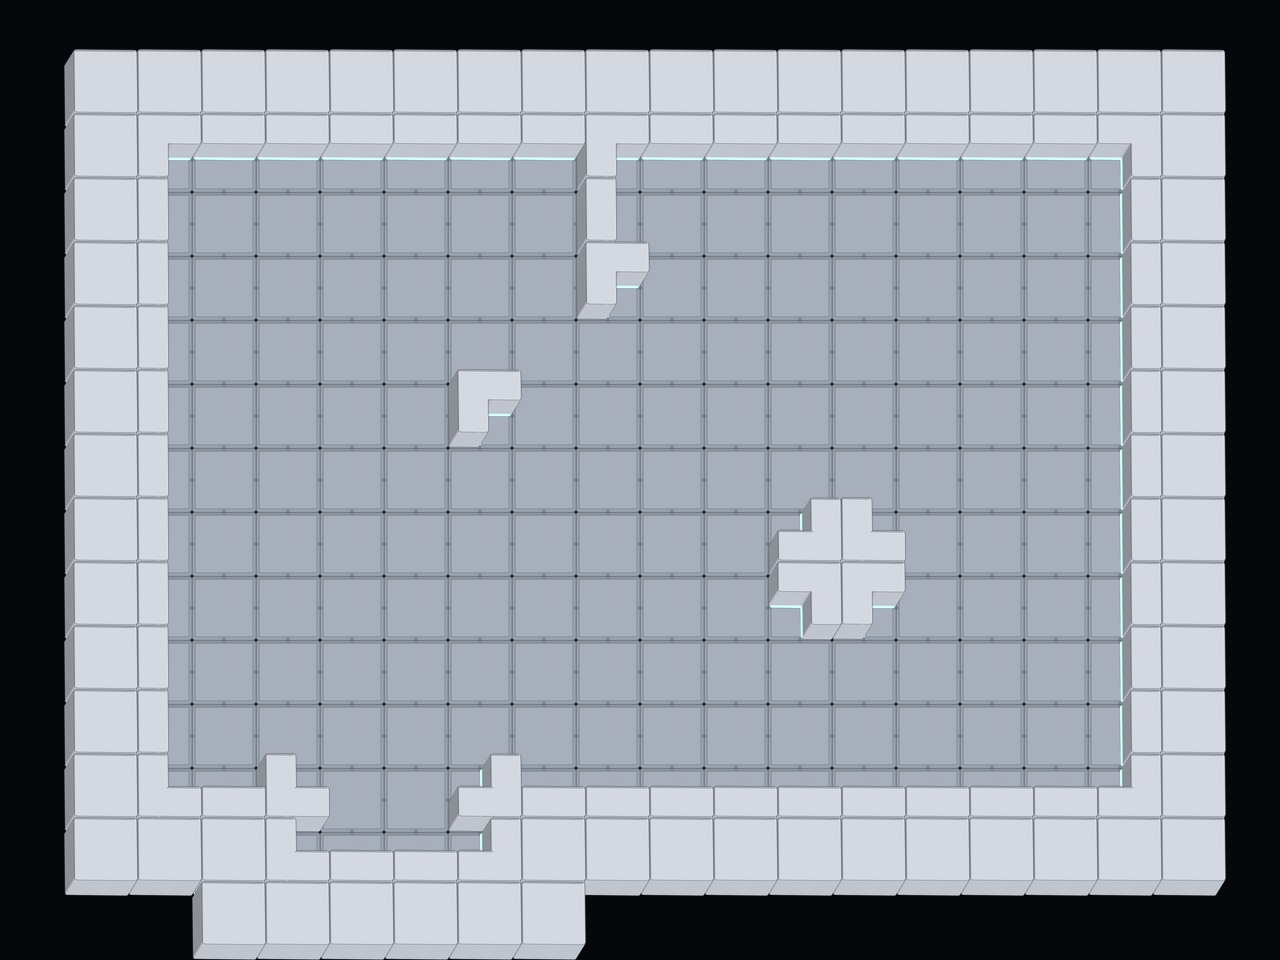
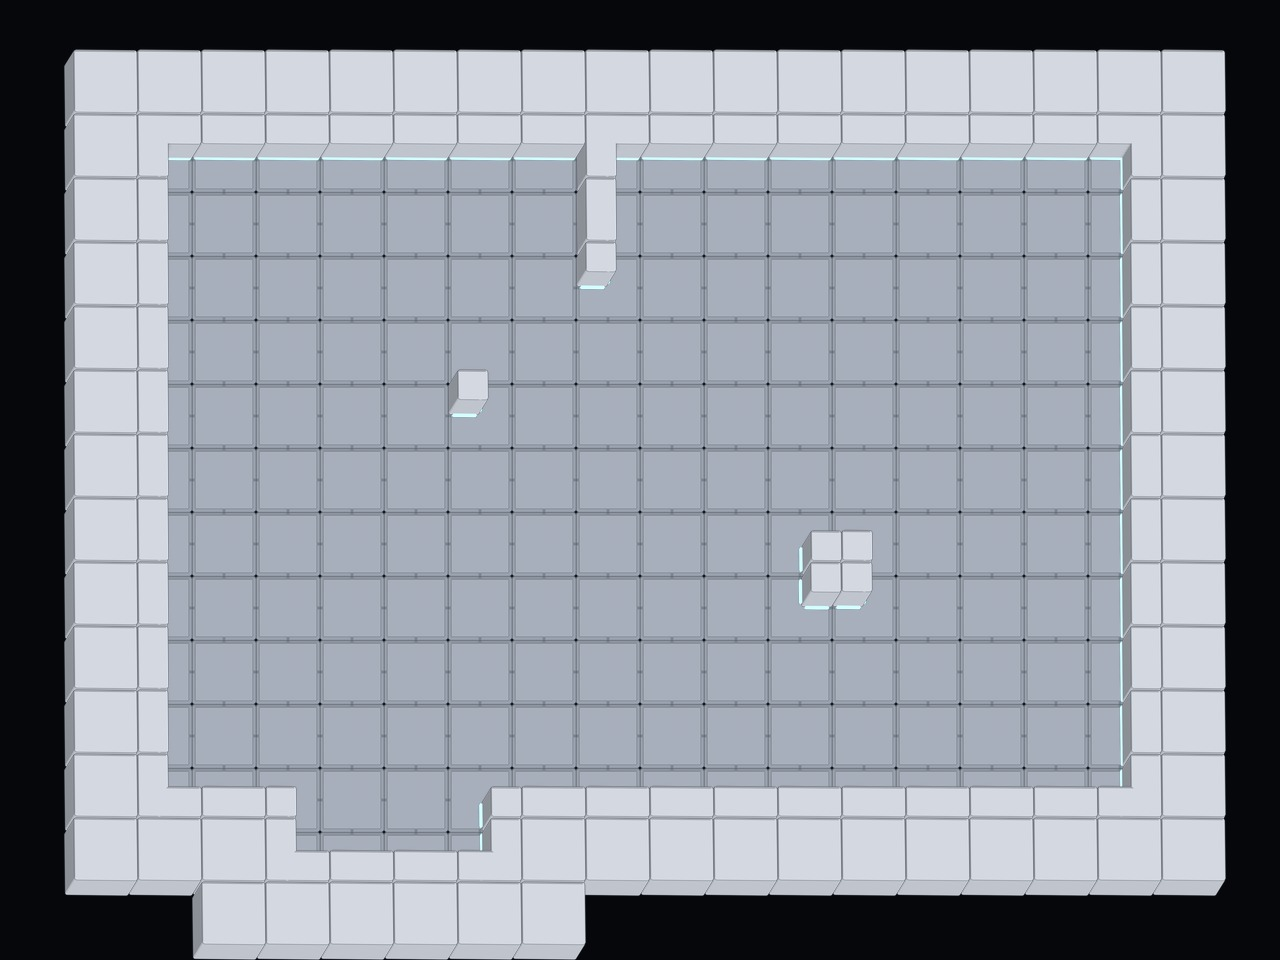
interior: bake convex corner posts; restore the maze wall mask
Convex corners (XNW/XNE/XSW/XSE, 13 tiles per variant row now). A wall run is
inset from the floor it faces, so its body is a half-cell strip on the far
side. At an OUTER corner the body is the INTERSECTION of the two strips — a
quarter-cell post. The old L-shaped tile was their UNION, which left the
perpendicular strip running the full cell and poking past the wall face: the
horns, and on a 2x2 block four of them cut it into a cross. Concave inner
corners keep the union (C*) — there the cell must carry both runs through it.

Wall mask: plan.solid mixes the sealed apron (real structure, and most of a
maze's wall mass) with furniture footprints. The previous fix dropped both, so
unwalkable apron rendered as open floor. Now only furniture is subtracted;
props standing on structure (banners, jail bars) are unaffected since their
tier clears solid_min_tier first.

diff --git a/src/surface/interiors.rs b/src/surface/interiors.rs
@@ -461,15 +461,18 @@ const T_WALL: u32 = 3;
 // past the grid); it's placed by its GROUND ORIGIN (the cell centre at z=0)
 // via a Bevy anchor, then y-sorted like any prop.
 const CAB_CELL_W: u32 = 74;
-const CAB_CELL_H: u32 = 80;
+const CAB_CELL_H: u32 = 82;
 const CAB_ASSET_PXU: f32 = 64.0; // asset pixels per world unit (→ TILE_PX in game)
-const CAB_ANCHOR: Vec2 = Vec2::new(-0.06419, -0.10625);
+const CAB_ANCHOR: Vec2 = Vec2::new(-0.06419, -0.11890);
 /// Foot-x weight for depth sorting = the bake's SHX/SHY lean ratio. Walls
 /// lean up-and-right, so left-of-same-row renders in front (see DepthShear).
 const CAB_SHEAR: f32 = 0.26 / 0.42;
 /// How many wall rings (Chebyshev, from walkable floor) a building draws
 /// before giving way to the black void beyond — a room, not walls forever.
 const CAB_WALL_BAND: i32 = 2;
+/// Tile kinds per variant row of the wall atlas: 4 straight runs, 4 concave
+/// corners, the deep cap, 4 convex corner posts. See `cabinet_tile_index`.
+const CAB_TILE_KINDS: u32 = 13;
 
 /// Read a PNG's `(width, height)` from its IHDR header without decoding the
 /// image. Lets the venue tilesets be self-describing: the number of floor /
@@ -488,30 +491,36 @@ fn png_dims(path: &str) -> Option<(u32, u32)> {
 
 /// Pick the cabinet wall tile (index into the 9-cell strip) for a wall cell.
 ///
-/// ONE rule, applied uniformly: **the wall body sits opposite every side that
-/// fronts floor**. A tile's name says where its body is, so floor to the south
-/// picks `N`; floor to the south *and* east picks `CNW`. That covers both
-/// corner families with the same art — the CONVEX outer corner (two orthogonal
-/// floors, e.g. a door jamb or pillar) and the CONCAVE inner corner (no
-/// orthogonal floor, one diagonal floor, e.g. a room's corner) — because in
-/// both cases the body belongs in the quadrant away from the floor.
+/// ONE rule: **the wall body sits opposite every side that fronts floor** — a
+/// run is inset from the floor it faces, so its body is a half-cell strip on
+/// the far side. Where two of those constraints meet, the two corner families
+/// differ in HOW they combine:
 ///
-/// Strip order: N=0 S=1 E=2 W=3 CNW=4 CNE=5 CSW=6 CSE=7 V=8.
+/// * CONVEX outer corner (two orthogonal floors — a jamb, a block corner):
+///   the body is their INTERSECTION, a quarter-cell post (`X*`). Their union
+///   would leave the perpendicular strip running the full cell and poking past
+///   the wall face — the "horns", which on a 2×2 block cut it into a cross.
+/// * CONCAVE inner corner (no orthogonal floor, one diagonal floor — a room's
+///   corner): the body is their UNION (`C*`), because the cell has to carry
+///   both neighbouring runs through it; the missing quadrant is the miter.
+///
+/// Strip order: N=0 S=1 E=2 W=3 CNW=4 CNE=5 CSW=6 CSE=7 V=8
+///              XNW=9 XNE=10 XSW=11 XSE=12.
 fn cabinet_tile_index(wall: impl Fn(i32, i32) -> bool, x: i32, y: i32) -> usize {
     let (f_n, f_s) = (!wall(x, y + 1), !wall(x, y - 1));
     let (f_e, f_w) = (!wall(x + 1, y), !wall(x - 1, y));
-    // Convex corners: two orthogonal floors → body in the opposite quadrant.
+    // Convex corners: two orthogonal floors → quarter-cell post.
     if f_s && f_e {
-        return 4; // floor S+E → body N+W = CNW
+        return 9; // floor S+E → post NW = XNW
     }
     if f_s && f_w {
-        return 5; // floor S+W → body N+E = CNE
+        return 10; // floor S+W → post NE = XNE
     }
     if f_n && f_e {
-        return 6; // floor N+E → body S+W = CSW
+        return 11; // floor N+E → post SW = XSW
     }
     if f_n && f_w {
-        return 7; // floor N+W → body S+E = CSE
+        return 12; // floor N+W → post SE = XSE
     }
     // Straight edges: one orthogonal floor → body on the far strip.
     if f_s {
@@ -1208,12 +1217,29 @@ pub(crate) fn setup_interior(
         // floor-adjacency) leaning up-and-right under a single oblique shear,
         // all y-sorted so the walker moves among them. Bake:
         // scripts/ship3d/interior_cabinet_tiles.py + pack_interior_tiles.py.
-        // STRUCTURE only — the rock/steel the room is carved from. Furniture
-        // (`plan.solid`: containers, carts, barrels, pumps) is solid for
-        // COLLISION but must not become wall ART, or a crate grows a wall on
-        // top of itself and its neighbours autotile a corner around it.
+        // Wall ART = everything the walker can't enter EXCEPT furniture.
+        //
+        // `plan.solid` mixes two very different things: the sealed apron
+        // (walkable-tier tiles that aren't designed floor — real structure,
+        // and the bulk of a maze's wall mass) and furniture footprints
+        // (containers, carts, barrels, pumps). The apron must render as wall
+        // or unwalkable space reads as open floor; furniture must not, or a
+        // crate grows a wall on top of itself. So subtract just the furniture.
+        //
+        // Props standing ON structure (wall banners, jail bars) are unaffected:
+        // their tier already clears `solid_min_tier`, which is checked first.
+        let mut furniture = vec![false; (map_w * map_h) as usize];
+        for &(name, (px, py)) in &plan.props {
+            let (pw, ph, _) = prop_meta(name);
+            for y in py..(py + ph).min(map_h) {
+                for x in px..(px + pw).min(map_w) {
+                    furniture[(y * map_w + x) as usize] = true;
+                }
+            }
+        }
         let structural = |tx: u32, ty: u32| -> bool {
             let tier = map2d[ty as usize][tx as usize];
+            let i = (ty * map_w + tx) as usize;
             tier >= plan.solid_min_tier
                 || biome
                     .terrains
@@ -1221,6 +1247,7 @@ pub(crate) fn setup_interior(
                     .find(|t| t.row == tier)
                     .map(|t| t.collision == 1)
                     .unwrap_or(false)
+                || (plan.solid[i] && !furniture[i])
         };
         let bin: Vec<Vec<u32>> = (0..map_h)
             .map(|y| {
@@ -1258,7 +1285,7 @@ pub(crate) fn setup_interior(
             .map_or(1, |(w, _)| (w / CAB_ASSET_PXU as u32).max(1));
         let walls_layout = atlas_layouts.add(TextureAtlasLayout::from_grid(
             UVec2::new(CAB_CELL_W, CAB_CELL_H),
-            9,
+            CAB_TILE_KINDS,
             wall_variants,
             None,
             None,
@@ -1311,7 +1338,7 @@ pub(crate) fn setup_interior(
                         walls_atlas.clone(),
                         TextureAtlas {
                             layout: walls_layout.clone(),
-                            index: wv * 9 + idx,
+                            index: wv * CAB_TILE_KINDS as usize + idx,
                         },
                     );
                     w.custom_size = Some(wall_size);
@@ -2436,11 +2463,14 @@ mod tests {
         assert_eq!(idx(0, 3), 3, "west wall → W");
         assert_eq!(idx(6, 3), 2, "east wall → E");
         assert_eq!(idx(1, 0), 1, "south wall segment → S (floor to north)");
-        // Door jambs (convex, two orthogonal floors): body goes to the
-        // quadrant AWAY from both floors, so the jamb left of the door (floor
-        // north + east) keeps its body south-west, and vice versa.
-        assert_eq!(idx(2, 0), 6, "left of door: floor N+E → body S+W = CSW");
-        assert_eq!(idx(4, 0), 7, "right of door: floor N+W → body S+E = CSE");
+        // Door jambs (convex, two orthogonal floors): a quarter-cell POST in
+        // the quadrant away from both floors — not the L-shaped concave tile,
+        // whose perpendicular strip would poke past the wall face as a horn.
+        assert_eq!(idx(2, 0), 11, "left of door: floor N+E → post S+W = XSW");
+        assert_eq!(idx(4, 0), 12, "right of door: floor N+W → post S+E = XSE");
+        // The two families must stay distinct: a room corner (concave) and a
+        // jamb (convex) both "face" the same way but use different art.
+        assert_ne!(idx(0, 5), idx(4, 0), "concave and convex must differ");
         // Deep wall cell (no floor anywhere adjacent) → solid cap V:
         let wall_all = |_x: i32, _y: i32| true;
         assert_eq!(cabinet_tile_index(wall_all, 5, 5), 8, "surrounded → V");

diff --git a/scripts/ship3d/interior_cabinet_tiles.py b/scripts/ship3d/interior_cabinet_tiles.py
@@ -84,14 +84,16 @@ def _face(edge):
     raise ValueError(edge)
 
 
-def _face_detail(edge, kind, variant, mat, glow):
+def _face_detail(edge, kind, variant, mat, glow, lo=-0.43, hi=0.43):
     """Add venue greebles on the room-facing wall face of one edge slab.
     `variant` seeds the organic (rock) placement so several wall tiles shuffle
-    across a run without visibly repeating."""
+    across a run without visibly repeating. `lo`/`hi` bound the run along the
+    face — quarter-cell corner posts only expose half of it."""
     if kind is None:
         return
     run, (fax, fc), ns = _face(edge)
     h = WALL_H
+    mid, half = (lo + hi) / 2, (hi - lo) / 2
 
     def place(name, along, out, z, size_run, size_out, size_z, m):
         # `along` runs down the face; `out` proud of the face by that much.
@@ -103,27 +105,31 @@ def _face_detail(edge, kind, variant, mat, glow):
         B.add_box(name, loc, size, m, bevel=0.01)
 
     if kind == "ribs":  # warehouse corrugation — vertical fins
-        for i, p in enumerate((-0.4, -0.2, 0.0, 0.2, 0.4)):
+        n = max(2, int(round((hi - lo) / 0.2)))
+        for i in range(n + 1):
+            p = lo + (hi - lo) * i / n
             place(f"rib{edge}{i}", p, 0.03, h * 0.5, 0.05, 0.06, h * 0.9, mat)
     elif kind == "conduit":  # substation — a pipe run + a glowing node
-        place(f"pipe{edge}", 0.0, 0.05, h * 0.58, 0.92, 0.08, 0.1, mat)
-        place(f"node{edge}", 0.26, 0.07, h * 0.58, 0.1, 0.06, 0.14, glow)
+        place(f"pipe{edge}", mid, 0.05, h * 0.58, half * 2.1, 0.08, 0.1, mat)
+        place(f"node{edge}", mid + half * 0.6, 0.07, h * 0.58, 0.1, 0.06, 0.14, glow)
     elif kind == "rock":  # mine — rough dug rock, clustered lumps + cap bumps
         import random
         rng = random.Random(700 + variant * 37 + (ord(edge[-1]) * 13))
-        for i in range(7):  # lumps over the room-facing face
-            along = rng.uniform(-0.43, 0.43)
+        for i in range(max(3, int(7 * (hi - lo) / 0.86))):  # lumps over the face
+            along = rng.uniform(lo, hi)
             z = rng.uniform(0.12, 0.96) * h
             s = rng.uniform(0.1, 0.26)
             place(f"rk{edge}{i}", along, 0.02 + rng.uniform(0, 0.04), z,
                   s, 0.12 + rng.uniform(0, 0.06), s * rng.uniform(0.7, 1.2), mat)
         # a few bumps riding the top cap so the ridge isn't a clean edge
-        (cx, cy, _), _ = _edge_slab(edge)
-        for i in range(4):
-            along = rng.uniform(-0.4, 0.4)
-            s = rng.uniform(0.12, 0.24)
-            loc = (along, cy, h * 0.96) if run == "x" else (cx, along, h * 0.96)
-            B.add_box(f"rkc{edge}{i}", loc, (s, s, 0.14), mat, bevel=0.4)
+        # (full-run edges only; corner posts get theirs from the face lumps)
+        if hi - lo > 0.8:
+            (cx, cy, _), _ = _edge_slab(edge)
+            for i in range(4):
+                along = rng.uniform(-0.4, 0.4)
+                s = rng.uniform(0.12, 0.24)
+                loc = (along, cy, h * 0.96) if run == "x" else (cx, along, h * 0.96)
+                B.add_box(f"rkc{edge}{i}", loc, (s, s, 0.14), mat, bevel=0.4)
 
 
 def _shear():
@@ -196,6 +202,37 @@ def _girder(edge, style, mat):
             place(f"gd{edge}{i}", -0.36 + 0.72 * f, (0.16 + 0.7 * f) * h, 0.18, 0.12, 0.18)
 
 
+# ── Convex (outer) corners ─────────────────────────────────────────────────
+# A wall run is inset from the floor it faces, so its body is a half-cell strip
+# on the far side. Where a run turns an OUTER corner, the body is the
+# INTERSECTION of the two strips — a quarter-cell post. Using their UNION (the
+# L-shaped CNW/CNE/CSW/CSE tiles) leaves the perpendicular strip running the
+# full cell and poking past the wall face: the "horns", and, on a 2x2 block,
+# four of them cutting the block into a cross.
+#
+# quad name → (body centre, the two exposed faces as (edge, run-span)).
+QUADS = {
+    "XNW": ((-0.5 + WALL_T / 2, 0.5 - WALL_T / 2),   # floor S+E
+            (("N", (-0.45, -0.06)), ("W", (0.06, 0.45)))),
+    "XNE": ((0.5 - WALL_T / 2, 0.5 - WALL_T / 2),    # floor S+W
+            (("N", (0.06, 0.45)), ("E", (0.06, 0.45)))),
+    "XSW": ((-0.5 + WALL_T / 2, -0.5 + WALL_T / 2),  # floor N+E
+            (("S", (-0.45, -0.06)), ("W", (-0.45, -0.06)))),
+    "XSE": ((0.5 - WALL_T / 2, -0.5 + WALL_T / 2),   # floor N+W
+            (("S", (0.06, 0.45)), ("E", (-0.45, -0.06)))),
+}
+
+
+def _quad_trim(edge, lo, hi):
+    """Base glow strip along the exposed part of a corner post's face."""
+    run, (_fax, fc), ns = _face(edge)
+    mid, length = (lo + hi) / 2, (hi - lo)
+    inner = fc + ns * 0.02
+    if run == "x":
+        return (mid, inner, 0.06), (length, 0.05, 0.10)
+    return (inner, mid, 0.06), (0.05, length, 0.10)
+
+
 def _cap_rock(variant, mat):
     """Bumpy top for a deep (V) cap — variant-seeded so caps vary too."""
     import random
@@ -221,6 +258,16 @@ def bake_tile(venue, pal, name, edges, variant=0):
         B.add_box("cap_V", (0, 0, WALL_H + 0.03), (1.0, 1.0, 0.08), mwt)
         if pal["detail"] == "rock":
             _cap_rock(variant, mw)
+    elif name in QUADS:
+        # Convex outer corner: a quarter-cell post (see QUADS).
+        (qx, qy), faces = QUADS[name]
+        B.add_box(f"w_{name}", (qx, qy, WALL_H / 2), (WALL_T, WALL_T, WALL_H), mw,
+                  bevel=0.03)
+        B.add_box(f"cap_{name}", (qx, qy, WALL_H + 0.03), (WALL_T, WALL_T, 0.08), mwt)
+        for e, (lo, hi) in faces:
+            (tx, ty, tz), (tsx, tsy, tsz) = _quad_trim(e, lo, hi)
+            B.add_box(f"tr_{name}_{e}", (tx, ty, tz), (tsx, tsy, tsz), mt)
+            _face_detail(e, pal["detail"], variant, md, mg, lo, hi)
     else:
         for e in edges:
             (cx, cy, cz), (sx, sy, sz) = _edge_slab(e)
@@ -302,9 +349,14 @@ def bake_floor(venue, pal, variant=0):
 
 
 TILES = {
+    # straight runs
     "N": ("N",), "S": ("S",), "E": ("E",), "W": ("W",),
+    # concave (inner) corners — union of two strips
     "CNW": ("N", "W"), "CNE": ("N", "E"), "CSW": ("S", "W"), "CSE": ("S", "E"),
+    # deep fill
     "V": ("V",),
+    # convex (outer) corners — intersection of two strips (quarter-cell post)
+    "XNW": (), "XNE": (), "XSW": (), "XSE": (),
 }
 
 if __name__ == "__main__":

diff --git a/scripts/ship3d/pack_interior_tiles.py b/scripts/ship3d/pack_interior_tiles.py
@@ -29,7 +29,8 @@ HERE = os.path.dirname(__file__)
 TILES = os.path.join(HERE, "out", "tiles")
 WORLDS = os.path.join(HERE, "..", "..", "assets", "sprites", "worlds")
 
-ORDER = ["N", "S", "E", "W", "CNW", "CNE", "CSW", "CSE", "V"]
+ORDER = ["N", "S", "E", "W", "CNW", "CNE", "CSW", "CSE", "V",
+         "XNW", "XNE", "XSW", "XSE"]
 # The station shop keeps the bare asset names the engine already loads; the
 # maze venues get a suffix. All share ONE bounding box (below), so the
 # engine's cell size + anchor constants are identical for every venue.
